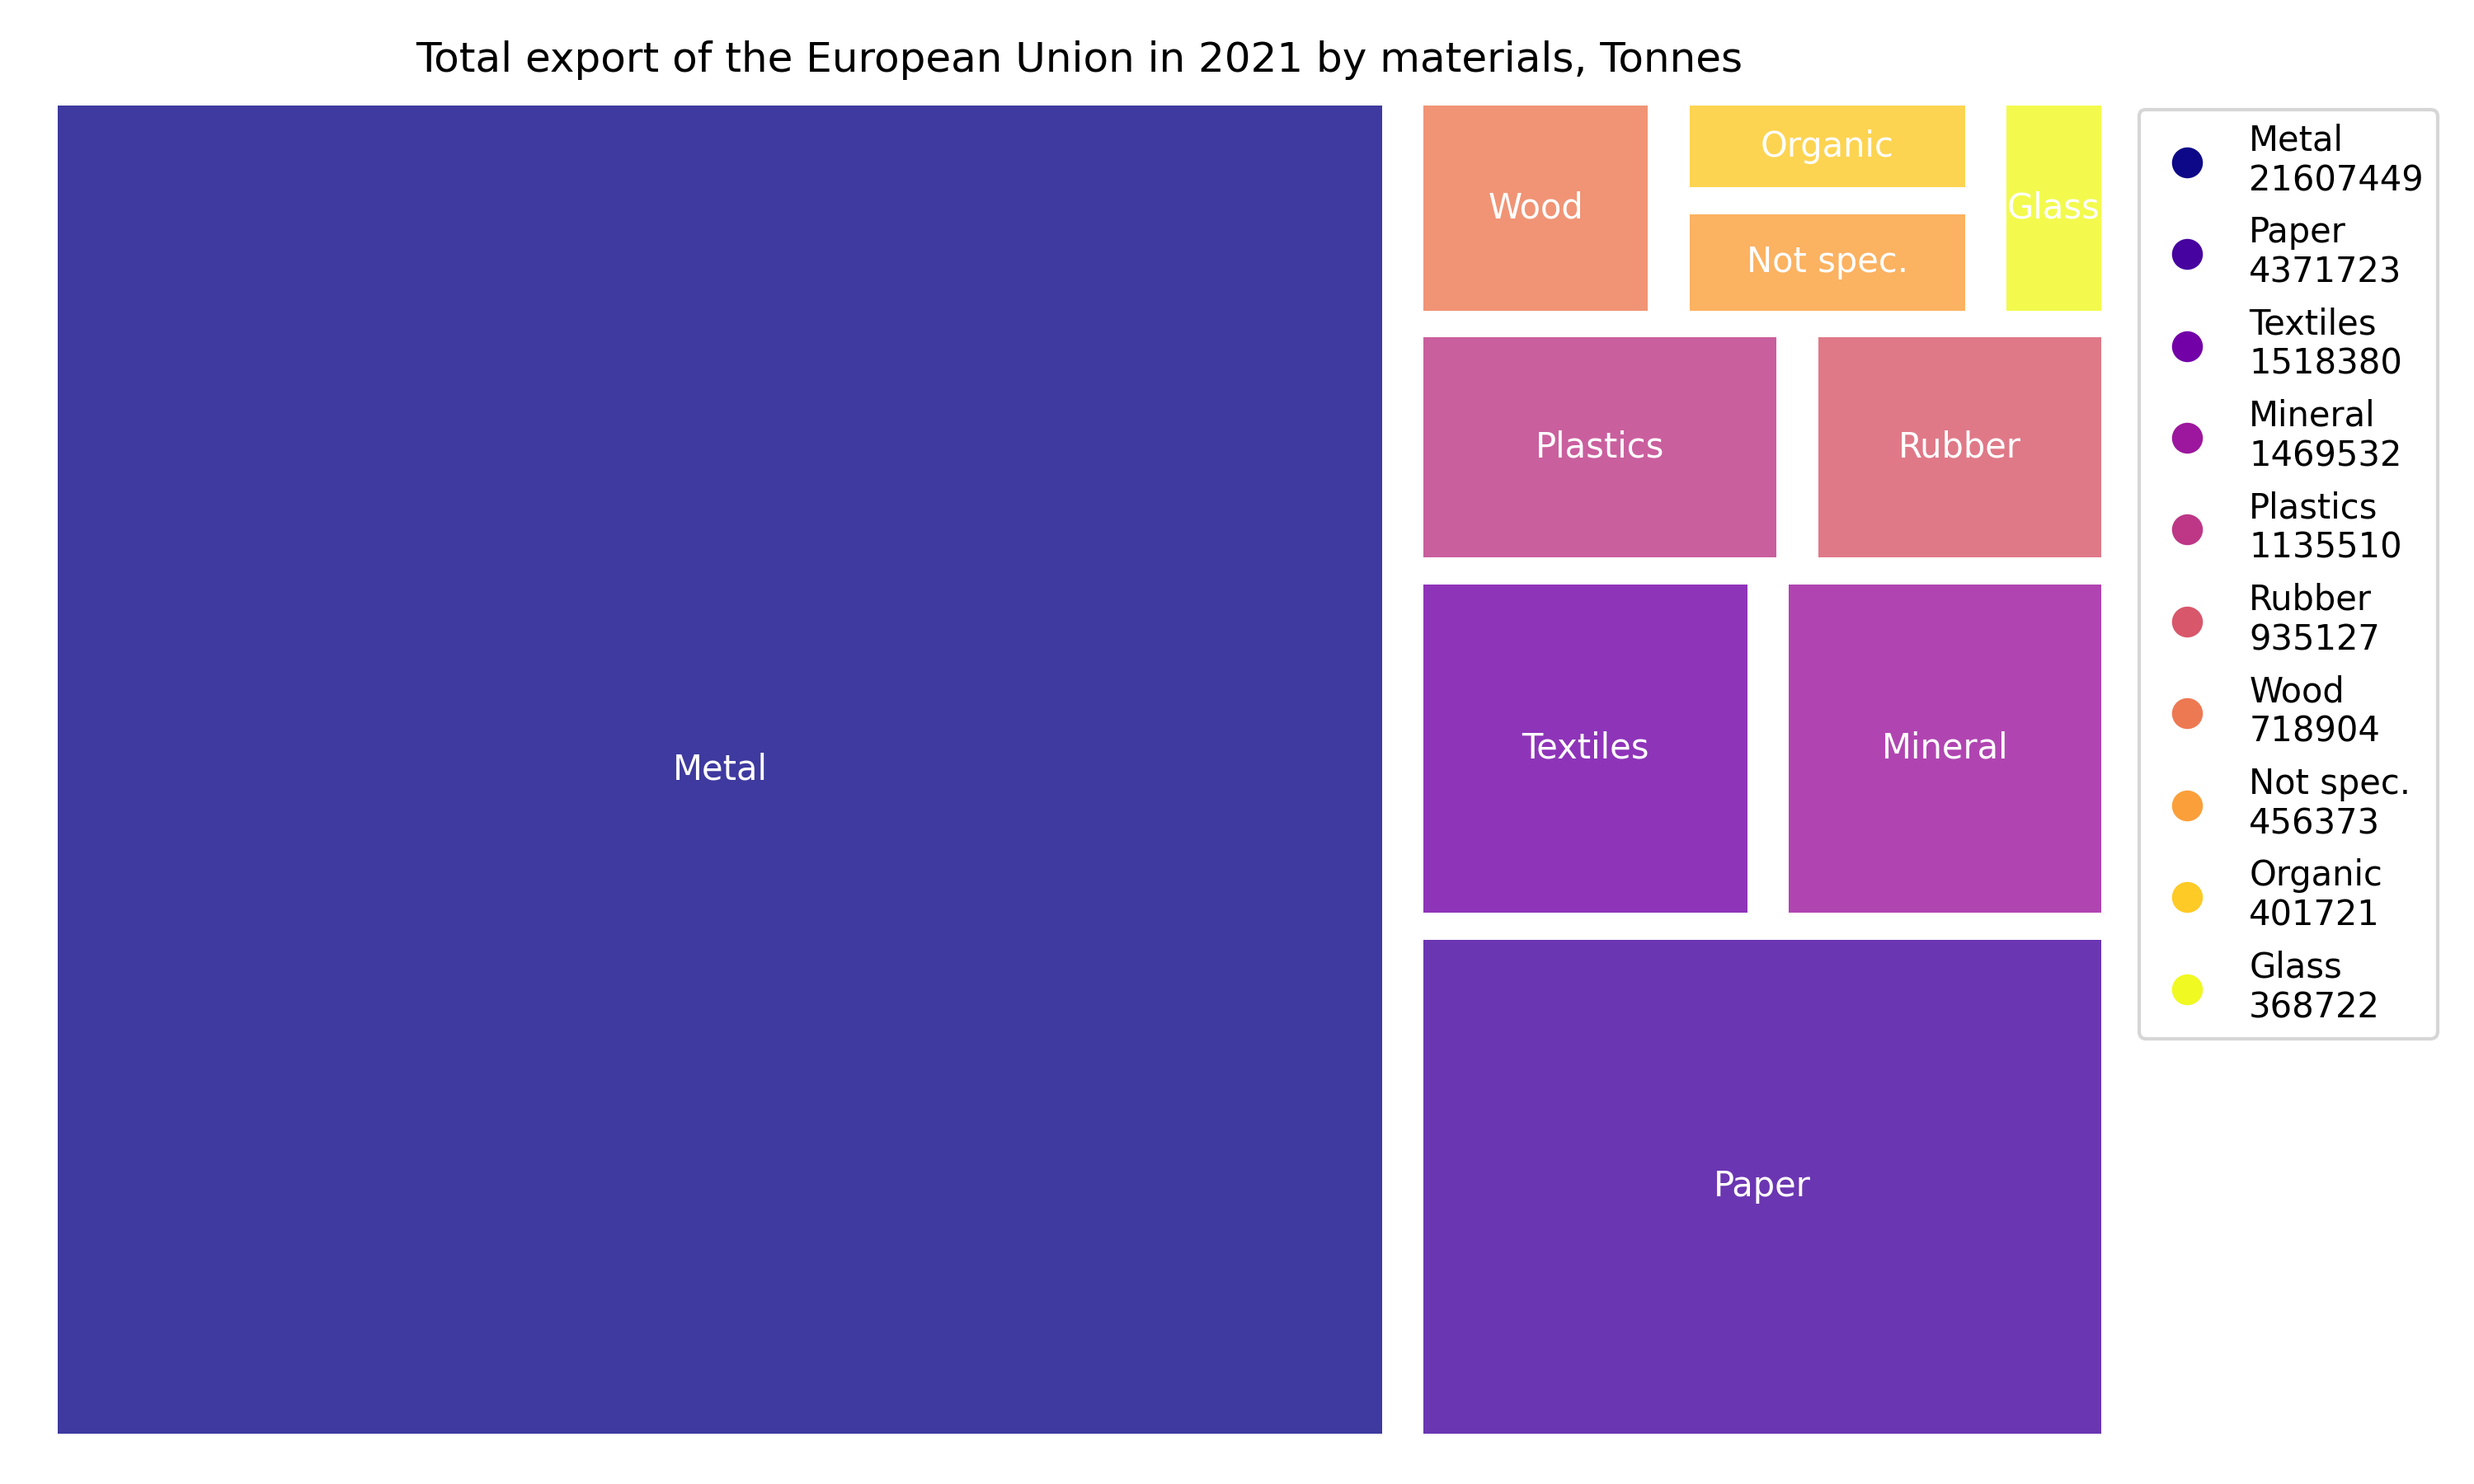
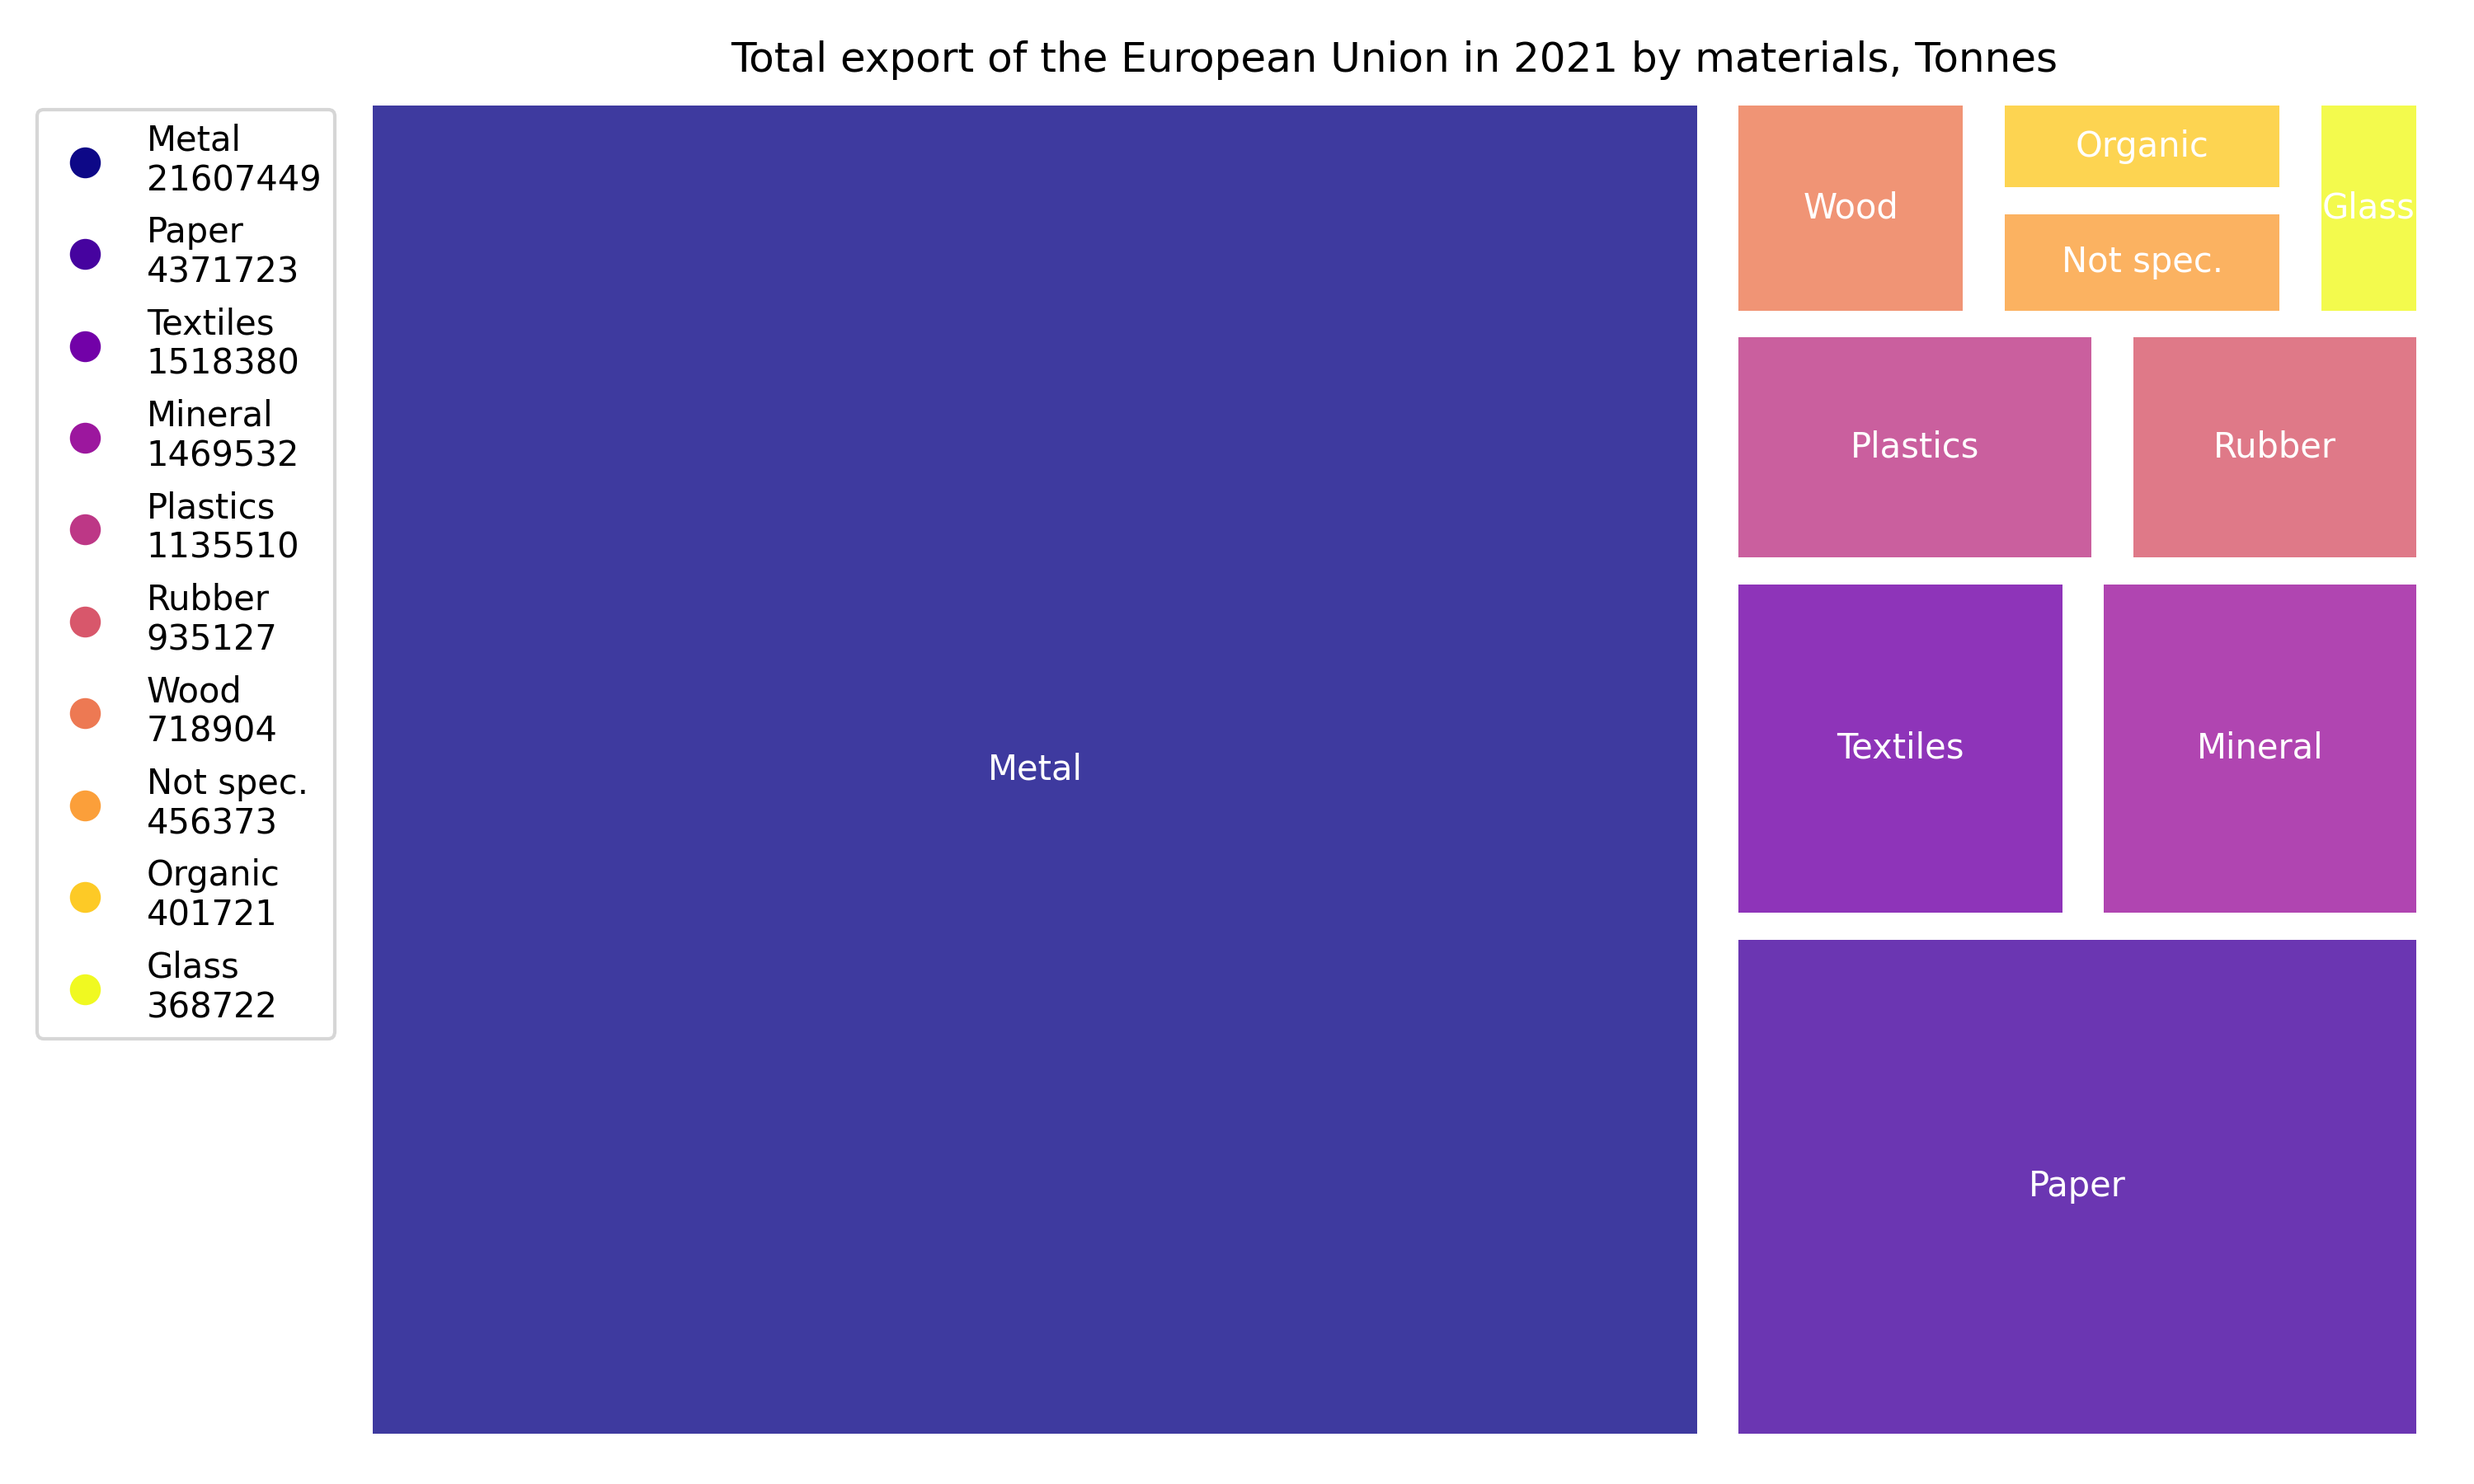
Change legend

diff --git a/scripts/visual_eu_export_by_years_materials.py b/scripts/visual_eu_export_by_years_materials.py
@@ -3,7 +3,7 @@ import numpy as np
 import matplotlib.pyplot as plt
 import squarify
 
-def add_legend(ax, labels, values, colors, title='', loc="upper left", bbox_to_anchor=(1, 1)):
+def add_legend(ax, labels, values, percents, colors, title='', loc="upper left", bbox_to_anchor=(1, 1)):
     """
     Adds a legend to the given axis with labels, values, and colors.
 
@@ -11,13 +11,15 @@ def add_legend(ax, labels, values, colors, title='', loc="upper left", bbox_to_a
     - ax: The axis object where the legend will be added.
     - labels: List of category labels.
     - values: List of corresponding values for the categories.
+    - percents: List of corresponding percents for the categories.
+    ! now without percents
     - colors: List of colors used in the treemap.
     - title: Title of the legend (default is "Legend (with values)").
     - loc: Location of the legend (default is "upper left").
     - bbox_to_anchor: Positioning of the legend relative to the plot (default is (1, 1)).
     """
     # Format labels to include values
-    legend_labels = [f"{label}\n{value}" for label, value in zip(labels, values)]
+    legend_labels = [f"{label}\n{value}" for label, value, percent in zip(labels, values, percents)]
     
     # Create marker patches for the legend
     legend_patches = [
@@ -57,9 +59,11 @@ plt.axis('off')
 ax.set_title('Total export of the European Union in 2021 by materials, Tonnes')
 add_legend(ax, 
            eu_export_2021['material_label'], 
-           eu_export_2021['tonne'], 
+           eu_export_2021['tonne'],
+           eu_export_2021['percent_of_year_total'],
            colors, 
-           loc='best')
+           loc='upper right', 
+           bbox_to_anchor = (0, 1))
 
 plt.tight_layout()
 plt.savefig('..//assets//eu_export_2021_by_materials.png', dpi=300)
